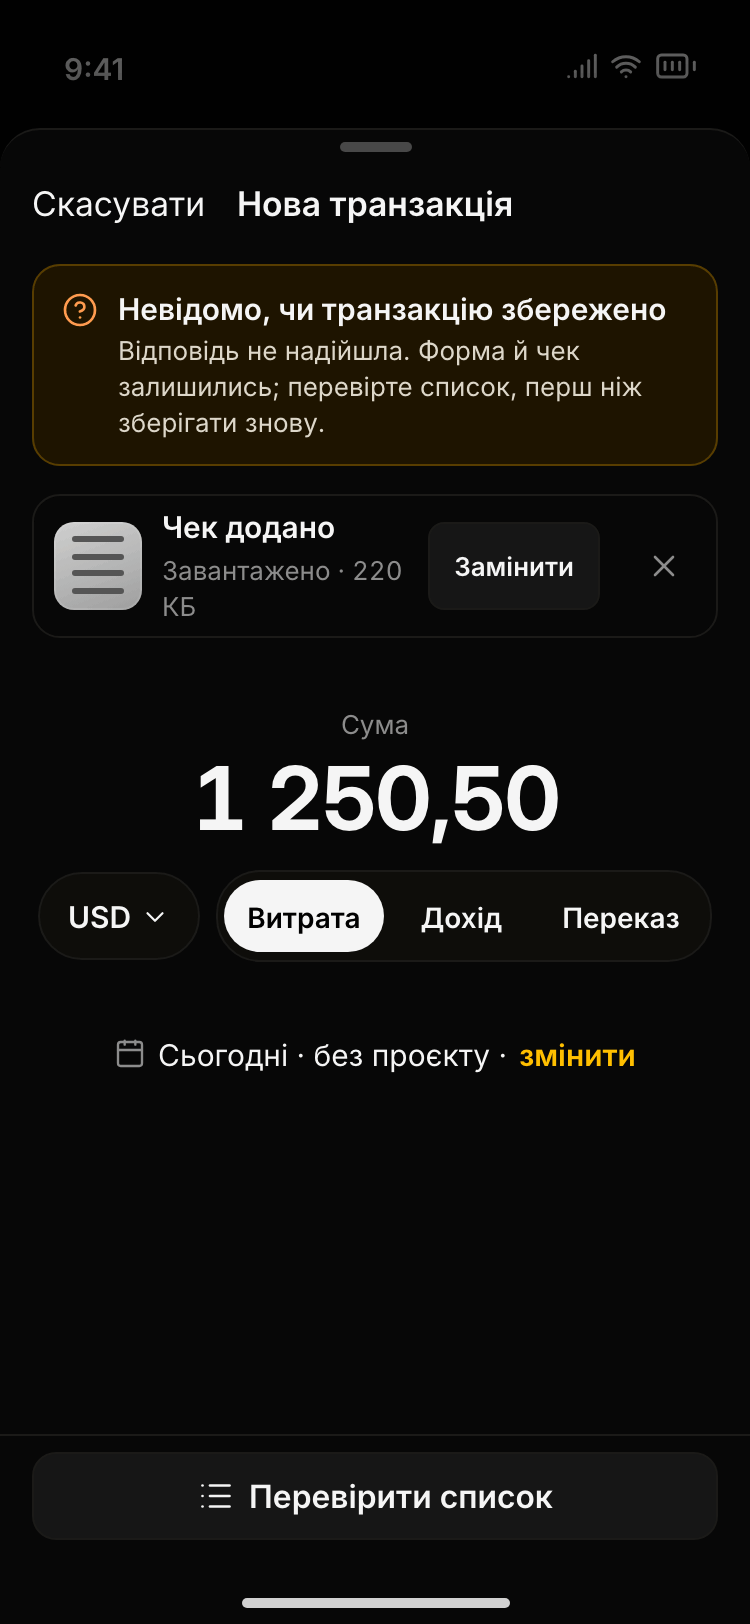
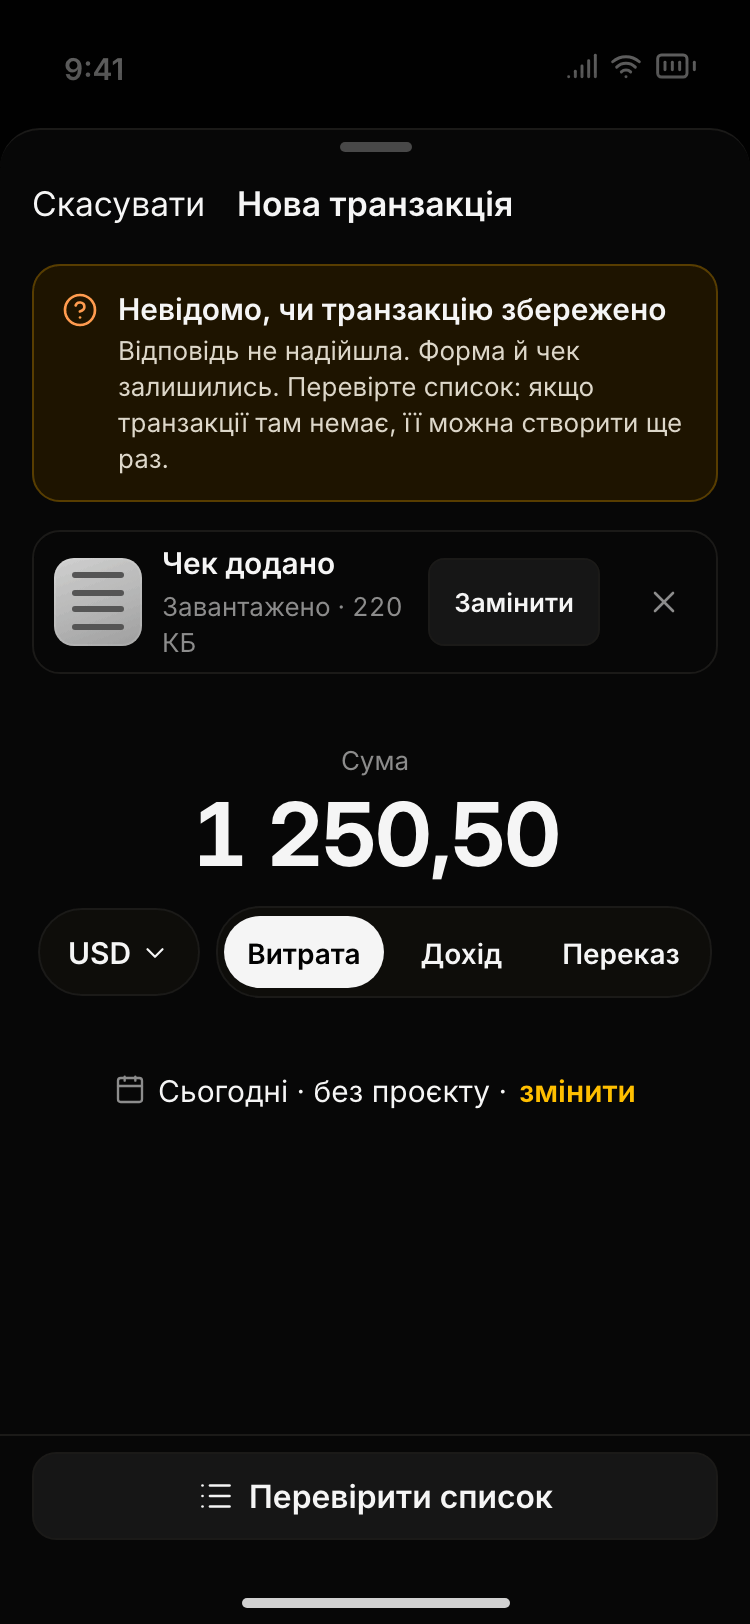
wip: design foundation v2 fix4 A — draft lifecycle table, result pills, page-kill alert, draft row, 320 armed

diff --git a/docs/design/foundation.md b/docs/design/foundation.md
@@ -308,7 +308,10 @@ reference widths below. Mobile-first: the base is mobile, scale up with `sm` / `
   the same key.
 - **Carve-out — the four forms without a key** (expense, admin-income, admin-transfer, company
   deposit) keep today's behaviour until the first Wave 1 task ships the key: **no optimistic insert**
-  (the row appears after the server confirms) and **no resubmit offer on an unknown outcome**.
+  (the row appears after the server confirms) and **no automatic or one-tap resubmit**: the unknown
+  alert itself never offers a resubmit. The one way to send the money again is a **user-confirmed new
+  create after seeing the refreshed list**: «Немає — створити ще раз» under that list, then a confirm
+  that names the amount, then exactly one new request (see the unknown-outcome row of the table below).
 - **Save failures, never merged.**
   - **422 (the values are wrong):** an inline error on the field, focus moved there, **no retry
     button**; the primary stays «Зберегти» (`primitives-v2/toast-error-definite-375.png`).
@@ -318,22 +321,41 @@ reference widths below. Mobile-first: the base is mobile, scale up with `sm` / `
     (`primitives-v2/toast-error-offline-375.png`).
   - **Unknown** — it may have committed: a 502 / 504 from the gateway, a Cloudflare 524 (prod sits behind
     Cloudflare), a connection dropped after sending, or a client timeout. On a form without a key the
-    alert says the outcome is unknown; the form and receipt stay; **no retry button**. «Перевірити
-    список» opens the list as a sheet over the kept form, refetched on open, with the line «Якщо
-    транзакції ще немає, оновіть список за хвилину»
-    (`primitives-v2/toast-error-unknown-375.png`, `toast-error-unknown-list-375.png`). Reached from
-    elsewhere, the kept form shows a row «Чернетка 1 250,50 USD · Продовжити».
+    alert reads «Відповідь не надійшла. Форма й чек залишились. Перевірте список: якщо транзакції там
+    немає, її можна створити ще раз.»; the form and receipt stay; **no retry button on the alert**.
+    «Перевірити список» opens the list as a sheet over the kept form, refetched on open, with the line
+    «Якщо транзакції ще немає, оновіть список за хвилину» and two exits under the list: «Є в списку —
+    закрити чернетку» and «Немає — створити ще раз» (`primitives-v2/toast-error-unknown-375.png`,
+    `toast-error-unknown-list-375.png`). Both exits are a provisional ruling; the owner confirms them
+    at PNG approval. Reached from elsewhere, the kept form is the pinned row «Чернетка 1 250,50 USD ·
+    Продовжити» (`primitives-v2/listrow-draft-375.png`).
   - App 500/503 counts as definite only for endpoints that commit in one DB transaction and swallow post-commit errors; Wave 1 verifies this per endpoint (AC + test) before the form shows a retry.
 - **Offline** never disables creation: the FAB stays enabled (no dim, no `aria-disabled`). Saving while
   offline gives the inline definite alert above with every value kept.
-- **Armed save (save during a receipt upload).** The primary reads «Зберегти після завантаження чека».
-  A tap **freezes the payload** and arms: the button reads «Збережеться 1 250,50 USD після чека · 62%»
-  (`shell-v2/quick-add-txn-armed-375.png`). A second tap or **any field edit disarms**. Dismissing the
-  sheet keeps the armed save: the upload pill carries «Збережеться 1 250,50 USD · 62%» and a tap reopens
-  the draft (`primitives-v2/upload-pill-armed-375.png`). At 100% exactly one request is sent; the result
-  is a toast («Транзакцію збережено» + «Відкрити») or a failure alert that reopens the draft.
-  Backgrounding the app does not disarm (no `visibilitychange` rule). **If the page is killed, nothing
-  is sent and the draft is gone**; the UI never claims otherwise.
+- **Armed save and the money-draft lifecycle** (save during a receipt upload). The primary reads
+  «Зберегти після завантаження чека». A tap **freezes the payload** and arms. The table below is the
+  single source; every frame and every other paragraph agrees with it.
+
+  | Event                                                                             | Button / pill / list show                                                                                                                                                                                                                                                                                                                                                                                               | What is sent                                                                                   | How the user leaves                                                                                                                                                         |
+  | --------------------------------------------------------------------------------- | ----------------------------------------------------------------------------------------------------------------------------------------------------------------------------------------------------------------------------------------------------------------------------------------------------------------------------------------------------------------------------------------------------------------------- | ---------------------------------------------------------------------------------------------- | --------------------------------------------------------------------------------------------------------------------------------------------------------------------------- |
+  | **Arm** (tap the primary while the receipt uploads)                               | Primary «Збережеться 1 250,50 USD після чека», «чек 62%» as a `progressbar`; one announcement «Збереження заплановано». Under it the 44 px text button «Не зберігати автоматично». The leading control reads **«Згорнути»** (`shell-v2/quick-add-txn-armed-375.png`, `-320.png`). Repeat taps on the primary are ignored: no toggle, no `aria-pressed`. A `localStorage` marker holding **only a timestamp** is written | Nothing yet; the payload is frozen in memory                                                   | «Згорнути», a drag down or a scrim tap all close the sheet and keep the save armed (next row)                                                                               |
+  | **Edit** (any field), **«Не зберігати автоматично»**, or the receipt upload fails | The primary returns to «Зберегти після завантаження чека»; one announcement «Автоматичне збереження вимкнено»; the leading control reads «Скасувати» again; the marker is removed                                                                                                                                                                                                                                       | Nothing; the upload continues                                                                  | Stays in the form; the draft is kept                                                                                                                                        |
+  | **Dismiss** while armed                                                           | The sheet closes. The upload pill reads «Збережеться 1 250,50 USD · 62%» · «Відкрити чернетку» (`primitives-v2/upload-pill-armed-375.png`); a toast stacks above it (`toast-pill-stack-375.png`)                                                                                                                                                                                                                        | Nothing until the receipt reaches 100%; then exactly **one** create, and the marker is removed | A pill tap or «+» reopens the same draft                                                                                                                                    |
+  | **Success**                                                                       | Sheet open: it closes. The pill holds «Збережено 1 250,50 USD · Відкрити» **until tapped** (`upload-pill-saved-375.png`); one announcement «Транзакцію збережено». The row appears in the list after the server confirms                                                                                                                                                                                                | The one create, 2xx                                                                            | Pill tap opens the transaction; the pill and the draft are gone                                                                                                             |
+  | **Definite failure** (422 or any definite case above)                             | Sheet open: the inline alert from the failure rules. Sheet closed: the pill holds «Не збережено · Відкрити чернетку» **until tapped** (`upload-pill-failed-375.png`); one announcement «Транзакцію не збережено». The list shows the pinned draft row                                                                                                                                                                   | The one create; wrote nothing                                                                  | Pill tap reopens the draft with the alert; or an explicit discard                                                                                                           |
+  | **Unknown outcome**                                                               | Sheet open: the unknown alert. Sheet closed: the pill holds «Результат невідомий · Відкрити чернетку» until tapped; the list shows the pinned draft row (`listrow-draft-375.png`). Inside the draft, «Перевірити список» opens the refetched list with the two exits (`toast-error-unknown-list-375.png`)                                                                                                               | The one create; it may have committed. **Nothing is re-sent automatically**                    | «Є в списку — закрити чернетку»: the draft closes, nothing is sent. «Немає — створити ще раз»: the confirm «Створити 1 250,50 USD ще раз?», then exactly **one** new create |
+  | **Page kill** while armed (tab closed, OS kill, crash)                            | At the next boot the marker is found: a persistent inline alert above the first screen «Транзакцію не збережено: застосунок закрився під час завантаження чека. Створіть її ще раз.» with «Зрозуміло» (`state-page-kill-375.png`). It names no amount: the marker holds none                                                                                                                                            | Nothing: the request never left (the marker is removed the moment the create is sent)          | «Зрозуміло» removes the marker and the alert                                                                                                                                |
+  | **Explicit discard** (from the draft, or before a new form while one exists)      | A confirm that names the amount: «Видалити чернетку 1 250,50 USD?» with «Видалити» and «Залишити»                                                                                                                                                                                                                                                                                                                       | Nothing; the upload is aborted                                                                 | «Видалити»: the draft, its pill, its row and the marker are gone. «Залишити»: back to the draft                                                                             |
+  - **One money draft per session.** While an armed, failed or unknown-outcome draft exists, «+» (the
+    FAB and the quick-add action) **reopens that draft**. A new form opens only after the discard
+    confirm above, which names the amount.
+  - **The result stays until acknowledged.** A sheet is **never opened automatically** over what the user
+    is doing; the pill holds the result. A toast timer **pauses while the page is hidden**.
+  - **No `visibilitychange` disarm:** backgrounding keeps the save armed. A page kill is **reported, not
+    hidden** (the page-kill row). **Finance data is never persisted client-side:** the marker is a
+    timestamp only, never an amount, a payload or a receipt.
+  - The draft row and the pill are one draft, drawn twice: the row in Фінанси, the pill on every tab.
+
 - **Pull-to-refresh** (spec §4.2) is an in-app gesture on the list scroller only: it refetches that
   list's query, **never reloads the page**, and is **off while a sheet is open**. Wave 0 proves on the
   iOS Simulator that a sheet drag at `scrollTop` 0 and a pull on a list never reload the page.
@@ -341,7 +363,7 @@ reference widths below. Mobile-first: the base is mobile, scale up with `sm` / `
 - **Filters live in the URL.** No saved filter views.
 - **Search covers loaded data only** (and Cmd+K navigation / page actions). No cross-entity server search.
 - **Uploads** are in-memory and non-blocking with a global progress indicator. Nothing survives an app
-  close; the UI never claims otherwise.
+  close. An armed money save lost this way is reported at the next boot (the page-kill row above).
 - **Keyboard (desktop):** Tab order follows reading order; Enter submits; Esc closes; single-key
   shortcuts (including `[` for the sidebar collapse) can be turned off in the `?` sheet (stored on the
   device, SC 2.1.4) and never fire inside a text field.

diff --git a/docs/design/screens/_foundation/shell-v2.md b/docs/design/screens/_foundation/shell-v2.md
@@ -88,17 +88,20 @@ tab bar holds **4 destinations + «Ще»**. «Ще» holds everything else, gro
   Wave 1 finance spec owns the form.
 - **Armed save** (save during a receipt upload). The primary stays an active button (no
   `aria-disabled`: it acts) whose label says what a tap does: «Зберегти після завантаження чека». A tap
-  **freezes the payload and arms** (`quick-add-txn-armed-375`): the button turns into a progress fill
-  reading «Збережеться 1 250,50 USD після чека · 62%» (`aria-pressed="true"`, the label in an
-  `aria-live="polite"` region, a caption «Натисніть ще раз або змініть поле, щоб скасувати»). A second
-  tap or **any field edit disarms** it. **Dismissing the sheet keeps the armed save**: the global upload
-  pill carries «Збережеться 1 250,50 USD · 62%» / «Відкрити чернетку», and a tap reopens the draft
-  (`primitives-v2/upload-pill-armed-375`). At 100% exactly one request is sent, so a form without an
-  idempotency key still sends exactly once; the result is a toast «Транзакцію збережено» + «Відкрити»,
-  or a failure alert that reopens the draft (`primitives-v2.md` §5). Backgrounding the app does not
-  disarm. **If the page is killed, nothing is sent and the draft is gone.** An upload failure disarms
-  the save and shows its error on the receipt card; the user may replace the file or remove it («✕
-  Видалити чек») and save without a receipt.
+  **freezes the payload and arms** (`quick-add-txn-armed-375`, `quick-add-txn-armed-320`): the button
+  turns into a progress fill reading «Збережеться 1 250,50 USD після чека» with «чек 62%» as a
+  `progressbar` (no `aria-pressed`; only arm, disarm and result are announced). **Repeat taps are
+  ignored.** Disarm is the separate 44 px text button «Не зберігати автоматично» under it, or any field
+  edit. While armed the leading control reads **«Згорнути»**: it closes the sheet and the save stays
+  armed (a drag down and a scrim tap do the same); the global upload pill then carries «Збережеться 1
+  250,50 USD · 62%» / «Відкрити чернетку» (`primitives-v2/upload-pill-armed-375`). At 100% exactly one
+  request is sent, so a form without an idempotency key still sends exactly once. The result **stays in
+  the pill until tapped** («Збережено 1 250,50 USD · Відкрити» or «Не збережено · Відкрити чернетку»);
+  no sheet opens by itself. Backgrounding the app does not disarm; a page kill is reported at the next
+  boot. **One money draft per session:** while a draft exists, «+» reopens it. The full lifecycle is
+  the state table in foundation §11. An upload failure disarms the save and shows its error on the
+  receipt card; the user may replace the file or remove it («✕ Видалити чек») and save without a
+  receipt.
 
 ### More sheet
 
@@ -192,7 +195,8 @@ tab bar holds **4 destinations + «Ще»**. «Ще» holds everything else, gro
 | `quick-add-admin-375.png`            |   375 | Quick-add menu from Статистика (4 actions)      |
 | `quick-add-hr-320.png`               |   320 | Quick-add menu at 320                           |
 | `quick-add-txn-keyboard-375.png`     |   375 | Canonical money form, decimal keys + system bar |
-| `quick-add-txn-armed-375.png`        |   375 | Save armed: frozen amount, receipt at 62%       |
+| `quick-add-txn-armed-375.png`        |   375 | Save armed: «Згорнути», separate disarm, 62%    |
+| `quick-add-txn-armed-320.png`        |   320 | Armed at 320: 1 250 000,50 UAH, label wraps     |
 | `state-loading-375.png`              |   375 | Shell + skeleton                                |
 | `state-empty-375.png`                |   375 | Empty tab root                                  |
 | `state-error-375.png`                |   375 | Load error with a safe re-fetch                 |
@@ -245,4 +249,5 @@ Re-render: `node assets/src/render.mjs shell [filter]`, then `assets/src/contact
   and payouts; JUNIOR: own salary). What each role really sees is the existing RBAC, unchanged by v2.
 - The armed save after an upload (frozen payload, kept across a sheet dismiss, carried by the pill)
   and the in-memory draft are proposals; the Wave 1 finance spec confirms them per form. The draft row
-  «Чернетка … · Продовжити» on the list is described, not drawn.
+  is drawn (`primitives-v2/listrow-draft-375`). The two unknown-outcome exits are a provisional ruling;
+  the owner confirms them at PNG approval.
